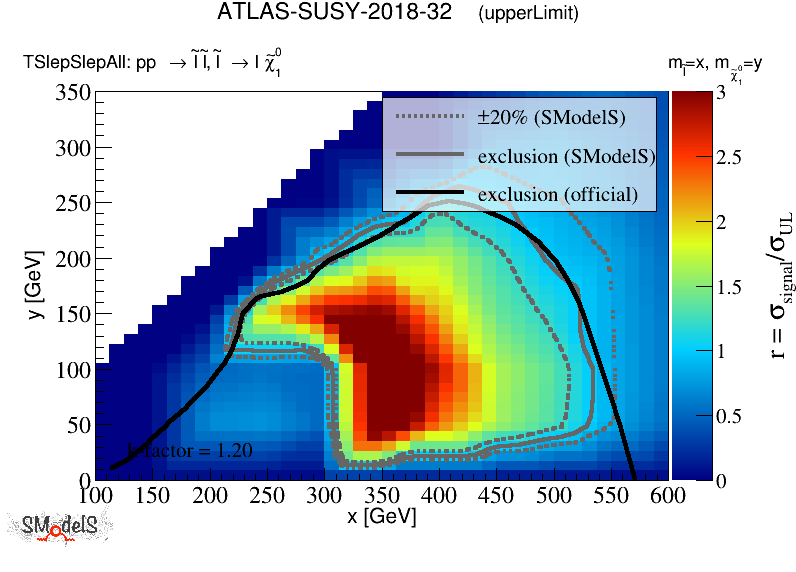
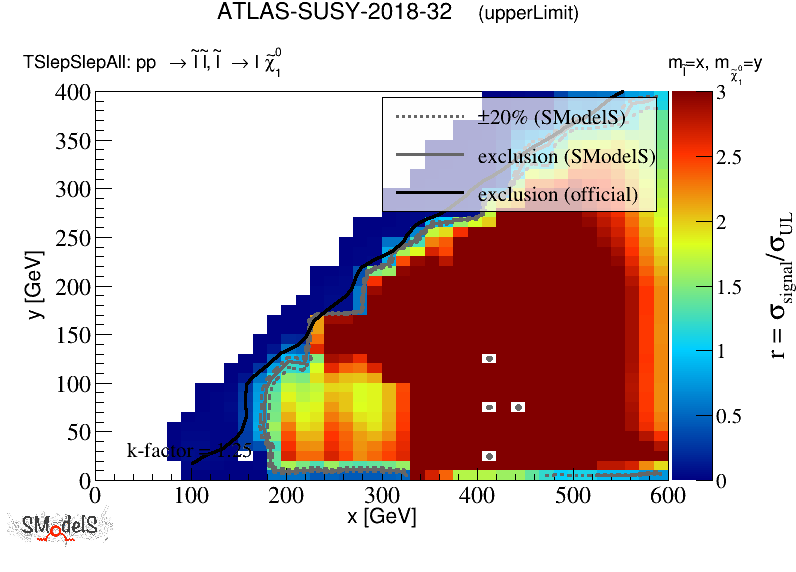
slep gen fix

diff --git a/docs/Validation123phil.md b/docs/Validation123phil.md
@@ -52,7 +52,7 @@ The validation procedure for upper limit maps used here is explained in [arXiv:1
 | [ATLAS-SUSY-2017-02](https://atlas.web.cern.ch/Atlas/GROUPS/PHYSICS/PAPERS/SUSY-2017-02/)| [TChiH](SmsDictionary123phil#TChiH)| 36.1|<a href="https://smodels.github.io/validation/123phil/13TeV/ATLAS/ATLAS-SUSY-2017-02/validation/TChiH_2EqMassAx_EqMassB1.0_pretty.png"><img src="https://smodels.github.io/validation/123phil/13TeV/ATLAS/ATLAS-SUSY-2017-02/validation/TChiH_2EqMassAx_EqMassB1.0_pretty.png" /></a>  | <img src="https://smodels.github.io/pics/new.png" /> in 1.2.3phil!  |
 | [ATLAS-SUSY-2018-32](https://atlas.web.cern.ch/Atlas/GROUPS/PHYSICS/PAPERS/SUSY-2018-32/)| [TChiWW](SmsDictionary123phil#TChiWW)| 139.0|<a href="https://smodels.github.io/validation/123phil/13TeV/ATLAS/ATLAS-SUSY-2018-32/validation/TChiWW_2EqMassAx_EqMassBy_pretty.png"><img src="https://smodels.github.io/validation/123phil/13TeV/ATLAS/ATLAS-SUSY-2018-32/validation/TChiWW_2EqMassAx_EqMassBy_pretty.png" /></a>  | <img src="https://smodels.github.io/pics/new.png" /> in 1.2.3phil!  |
 | | [TChipChimSlepSlepAll](SmsDictionary123phil#TChipChimSlepSlepAll)| 139.0|<a href="https://smodels.github.io/validation/123phil/13TeV/ATLAS/ATLAS-SUSY-2018-32/validation/TChipChimSlepSlepAll_2EqMassAx_EqMassB0.5x+0.5y_EqMassCy_pretty.png"><img src="https://smodels.github.io/validation/123phil/13TeV/ATLAS/ATLAS-SUSY-2018-32/validation/TChipChimSlepSlepAll_2EqMassAx_EqMassB0.5x+0.5y_EqMassCy_pretty.png" /></a>  | <img src="https://smodels.github.io/pics/new.png" /> in 1.2.3phil!  |
-| | [TSlepSlep](SmsDictionary123phil#TSlepSlep)| 139.0|<a href="https://smodels.github.io/validation/123phil/13TeV/ATLAS/ATLAS-SUSY-2018-32/validation/TSlepSlep_2EqMassAx_EqMassBy_pretty.png"><img src="https://smodels.github.io/validation/123phil/13TeV/ATLAS/ATLAS-SUSY-2018-32/validation/TSlepSlep_2EqMassAx_EqMassBy_pretty.png" /></a>  | <img src="https://smodels.github.io/pics/new.png" /> in 1.2.3phil!  |
+| | [TSlepSlepAll](SmsDictionary123phil#TSlepSlepAll)| 139.0|<a href="https://smodels.github.io/validation/123phil/13TeV/ATLAS/ATLAS-SUSY-2018-32/validation/TSlepSlepAll_2EqMassAx_EqMassBy_pretty.png"><img src="https://smodels.github.io/validation/123phil/13TeV/ATLAS/ATLAS-SUSY-2018-32/validation/TSlepSlepAll_2EqMassAx_EqMassBy_pretty.png" /></a>  | <img src="https://smodels.github.io/pics/new.png" /> in 1.2.3phil!  |
 
 
 <a name="ATLASefficiencymaps13"></a>
@@ -84,4 +84,4 @@ The validation procedure for upper limit maps used here is explained in [arXiv:1
 | [ATLAS-SUSY-2017-01](https://atlas.web.cern.ch/Atlas/GROUPS/PHYSICS/PAPERS/SUSY-2017-01/)| [TChiWH](SmsDictionary123phil#TChiWH)| 36.1|<a href="https://smodels.github.io/validation/123phil/13TeV/ATLAS/ATLAS-SUSY-2017-01-eff/validation/TChiWH_2EqMassAx_EqMassBy_pretty.png"><img src="https://smodels.github.io/validation/123phil/13TeV/ATLAS/ATLAS-SUSY-2017-01-eff/validation/TChiWH_2EqMassAx_EqMassBy_pretty.png" /></a>  | <img src="https://smodels.github.io/pics/new.png" /> in 1.2.3phil! [comment](https://smodels.github.io/validation/123phil/13TeV/ATLAS/ATLAS-SUSY-2017-01-eff/validation/TChiWH.txt) |
 | [ATLAS-SUSY-2018-32](https://atlas.web.cern.ch/Atlas/GROUPS/PHYSICS/PAPERS/SUSY-2018-32/)| [TChiWW](SmsDictionary123phil#TChiWW)| 139.0|<a href="https://smodels.github.io/validation/123phil/13TeV/ATLAS/ATLAS-SUSY-2018-32-eff/validation/TChiWW_2EqMassAx_EqMassBy_pretty.png"><img src="https://smodels.github.io/validation/123phil/13TeV/ATLAS/ATLAS-SUSY-2018-32-eff/validation/TChiWW_2EqMassAx_EqMassBy_pretty.png" /></a>  | <img src="https://smodels.github.io/pics/new.png" /> in 1.2.3phil!  |
 
-This page was created Thu Jan 23 13:07:33 2020
+This page was created Thu Jan 23 14:26:42 2020

diff --git a/docs/ValidationUgly123phil.md b/docs/ValidationUgly123phil.md
@@ -55,7 +55,7 @@ To [official validation plots](Validation123phil)
 | [ATLAS-SUSY-2017-02](https://atlas.web.cern.ch/Atlas/GROUPS/PHYSICS/PAPERS/SUSY-2017-02/)| [TChiH](SmsDictionary123phil#TChiH)| 36.1| tbd |<a href="https://smodels.github.io/validation/123phil/13TeV/ATLAS/ATLAS-SUSY-2017-02/validation/TChiH_2EqMassAx_EqMassB1.0.png"><img src="https://smodels.github.io/validation/123phil/13TeV/ATLAS/ATLAS-SUSY-2017-02/validation/TChiH_2EqMassAx_EqMassB1.0.png" /></a>  | <img src="https://smodels.github.io/pics/new.png" /> in 1.2.3phil!  |
 | [ATLAS-SUSY-2018-32](https://atlas.web.cern.ch/Atlas/GROUPS/PHYSICS/PAPERS/SUSY-2018-32/)| [TChiWW](SmsDictionary123phil#TChiWW)| 139.0| tbd |<a href="https://smodels.github.io/validation/123phil/13TeV/ATLAS/ATLAS-SUSY-2018-32/validation/TChiWW_2EqMassAx_EqMassBy.png"><img src="https://smodels.github.io/validation/123phil/13TeV/ATLAS/ATLAS-SUSY-2018-32/validation/TChiWW_2EqMassAx_EqMassBy.png" /></a>  | <img src="https://smodels.github.io/pics/new.png" /> in 1.2.3phil!  |
 | | [TChipChimSlepSlepAll](SmsDictionary123phil#TChipChimSlepSlepAll)| 139.0| tbd |<a href="https://smodels.github.io/validation/123phil/13TeV/ATLAS/ATLAS-SUSY-2018-32/validation/TChipChimSlepSlepAll_2EqMassAx_EqMassB0.5x+0.5y_EqMassCy.png"><img src="https://smodels.github.io/validation/123phil/13TeV/ATLAS/ATLAS-SUSY-2018-32/validation/TChipChimSlepSlepAll_2EqMassAx_EqMassB0.5x+0.5y_EqMassCy.png" /></a>  | <img src="https://smodels.github.io/pics/new.png" /> in 1.2.3phil!  |
-| | [TSlepSlep](SmsDictionary123phil#TSlepSlep)| 139.0| tbd |<a href="https://smodels.github.io/validation/123phil/13TeV/ATLAS/ATLAS-SUSY-2018-32/validation/TSlepSlep_2EqMassAx_EqMassBy.png"><img src="https://smodels.github.io/validation/123phil/13TeV/ATLAS/ATLAS-SUSY-2018-32/validation/TSlepSlep_2EqMassAx_EqMassBy.png" /></a>  | <img src="https://smodels.github.io/pics/new.png" /> in 1.2.3phil!  |
+| | [TSlepSlepAll](SmsDictionary123phil#TSlepSlepAll)| 139.0| tbd |  | <img src="https://smodels.github.io/pics/new.png" /> in 1.2.3phil!  |
 
 
 <a name="ATLASefficiencymaps13"></a>
@@ -87,4 +87,4 @@ To [official validation plots](Validation123phil)
 | [ATLAS-SUSY-2017-01](https://atlas.web.cern.ch/Atlas/GROUPS/PHYSICS/PAPERS/SUSY-2017-01/)| [TChiWH](SmsDictionary123phil#TChiWH)| 36.1| tbd |<a href="https://smodels.github.io/validation/123phil/13TeV/ATLAS/ATLAS-SUSY-2017-01-eff/validation/TChiWH_2EqMassAx_EqMassBy.png"><img src="https://smodels.github.io/validation/123phil/13TeV/ATLAS/ATLAS-SUSY-2017-01-eff/validation/TChiWH_2EqMassAx_EqMassBy.png" /></a>  | <img src="https://smodels.github.io/pics/new.png" /> in 1.2.3phil! [comment](https://smodels.github.io/validation/123phil/13TeV/ATLAS/ATLAS-SUSY-2017-01-eff/validation/TChiWH.txt) |
 | [ATLAS-SUSY-2018-32](https://atlas.web.cern.ch/Atlas/GROUPS/PHYSICS/PAPERS/SUSY-2018-32/)| [TChiWW](SmsDictionary123phil#TChiWW)| 139.0| tbd |<a href="https://smodels.github.io/validation/123phil/13TeV/ATLAS/ATLAS-SUSY-2018-32-eff/validation/TChiWW_2EqMassAx_EqMassBy.png"><img src="https://smodels.github.io/validation/123phil/13TeV/ATLAS/ATLAS-SUSY-2018-32-eff/validation/TChiWW_2EqMassAx_EqMassBy.png" /></a>  | <img src="https://smodels.github.io/pics/new.png" /> in 1.2.3phil!  |
 
-This page was created Thu Jan 23 13:07:42 2020
+This page was created Thu Jan 23 14:26:49 2020

diff --git a/docs/ListOfAnalyses123philWithSuperseded.md b/docs/ListOfAnalyses123philWithSuperseded.md
@@ -2,7 +2,7 @@
 
 # List Of Analyses 1.2.3phil (including superseded results)
 List of analyses and topologies in the SMS results database,
-comprising 79 individual maps from 59 distinct signal regions, 16 different SMS topologies, from a total of 7 analyses.
+comprising 79 individual maps from 59 distinct signal regions, 15 different SMS topologies, from a total of 7 analyses.
 The list has been created from the database version `1.2.3phil`.
 Results from FastLim are included. There is also an  [sms dictionary](SmsDictionary123phil) and a [validation page](Validation123phil).
 Link to list of results [without superseded results](ListOfAnalyses123phil).
@@ -24,7 +24,7 @@ Link to list of results [without superseded results](ListOfAnalyses123phil).
 | [ATLAS-SUSY-2016-27](https://atlas.web.cern.ch/Atlas/GROUPS/PHYSICS/PAPERS/SUSY-2016-27/)<a name="ATLAS-SUSY-2016-27"></a> |  | 36.1 | [T5Gamma](SmsDictionary123phil#T5Gamma), [T5ZGamma](SmsDictionary123phil#T5ZGamma), [T6Gamma](SmsDictionary123phil#T6Gamma), [TChipChimGamma](SmsDictionary123phil#TChipChimGamma) | | |
 | [ATLAS-SUSY-2017-01](https://atlas.web.cern.ch/Atlas/GROUPS/PHYSICS/PAPERS/SUSY-2017-01/)<a name="ATLAS-SUSY-2017-01"></a> | EWK WH(bb) + MET | 36.1 | [TChiWH](SmsDictionary123phil#TChiWH) | | |
 | [ATLAS-SUSY-2017-02](https://atlas.web.cern.ch/Atlas/GROUPS/PHYSICS/PAPERS/SUSY-2017-02/)<a name="ATLAS-SUSY-2017-02"></a> | 0L + jets + Etmiss | 36.1 | [TChiH](SmsDictionary123phil#TChiH) | | |
-| [ATLAS-SUSY-2018-32](https://atlas.web.cern.ch/Atlas/GROUPS/PHYSICS/PAPERS/SUSY-2018-32/)<a name="ATLAS-SUSY-2018-32"></a> | 2 leptons + MET | 139.0 | [TChiWW](SmsDictionary123phil#TChiWW), [TChipChimSlepSlepAll](SmsDictionary123phil#TChipChimSlepSlepAll), [TSlepSlep](SmsDictionary123phil#TSlepSlep) | | |
+| [ATLAS-SUSY-2018-32](https://atlas.web.cern.ch/Atlas/GROUPS/PHYSICS/PAPERS/SUSY-2018-32/)<a name="ATLAS-SUSY-2018-32"></a> | 2 leptons + MET | 139.0 | [TChiWW](SmsDictionary123phil#TChiWW), [TChipChimSlepSlepAll](SmsDictionary123phil#TChipChimSlepSlepAll), [TSlepSlepAll](SmsDictionary123phil#TSlepSlepAll) | | |
 
 <a name="ATLASefficiencymaps13"></a>
 ## ATLAS, efficiency maps, 13 TeV (6 analyses)

diff --git a/docs/ListOfAnalyses123phil.md b/docs/ListOfAnalyses123phil.md
@@ -2,7 +2,7 @@
 
 # List Of Analyses 1.2.3phil 
 List of analyses and topologies in the SMS results database,
-comprising 79 individual maps from 59 distinct signal regions, 16 different SMS topologies, from a total of 7 analyses.
+comprising 79 individual maps from 59 distinct signal regions, 15 different SMS topologies, from a total of 7 analyses.
 The list has been created from the database version `1.2.3phil`.
 Results from FastLim are included. There is also an  [sms dictionary](SmsDictionary123phil) and a [validation page](Validation123phil).
 Link to list of results [including superseded results](ListOfAnalyses123philWithSuperseded).
@@ -24,7 +24,7 @@ Link to list of results [including superseded results](ListOfAnalyses123philWith
 | [ATLAS-SUSY-2016-27](https://atlas.web.cern.ch/Atlas/GROUPS/PHYSICS/PAPERS/SUSY-2016-27/)<a name="ATLAS-SUSY-2016-27"></a> |  | 36.1 | [T5Gamma](SmsDictionary123phil#T5Gamma), [T5ZGamma](SmsDictionary123phil#T5ZGamma), [T6Gamma](SmsDictionary123phil#T6Gamma), [TChipChimGamma](SmsDictionary123phil#TChipChimGamma) | |
 | [ATLAS-SUSY-2017-01](https://atlas.web.cern.ch/Atlas/GROUPS/PHYSICS/PAPERS/SUSY-2017-01/)<a name="ATLAS-SUSY-2017-01"></a> | EWK WH(bb) + MET | 36.1 | [TChiWH](SmsDictionary123phil#TChiWH) | |
 | [ATLAS-SUSY-2017-02](https://atlas.web.cern.ch/Atlas/GROUPS/PHYSICS/PAPERS/SUSY-2017-02/)<a name="ATLAS-SUSY-2017-02"></a> | 0L + jets + Etmiss | 36.1 | [TChiH](SmsDictionary123phil#TChiH) | |
-| [ATLAS-SUSY-2018-32](https://atlas.web.cern.ch/Atlas/GROUPS/PHYSICS/PAPERS/SUSY-2018-32/)<a name="ATLAS-SUSY-2018-32"></a> | 2 leptons + MET | 139.0 | [TChiWW](SmsDictionary123phil#TChiWW), [TChipChimSlepSlepAll](SmsDictionary123phil#TChipChimSlepSlepAll), [TSlepSlep](SmsDictionary123phil#TSlepSlep) | |
+| [ATLAS-SUSY-2018-32](https://atlas.web.cern.ch/Atlas/GROUPS/PHYSICS/PAPERS/SUSY-2018-32/)<a name="ATLAS-SUSY-2018-32"></a> | 2 leptons + MET | 139.0 | [TChiWW](SmsDictionary123phil#TChiWW), [TChipChimSlepSlepAll](SmsDictionary123phil#TChipChimSlepSlepAll), [TSlepSlepAll](SmsDictionary123phil#TSlepSlepAll) | |
 
 <a name="ATLASefficiencymaps13"></a>
 ## ATLAS, efficiency maps, 13 TeV (6 analyses)

diff --git a/docs/SmsDictionary123phil.md b/docs/SmsDictionary123phil.md
@@ -22,5 +22,4 @@ There is also a [ListOfAnalyses123phil](https://smodels.github.io/docs/ListOfAna
 | 12 | <a name="TChiWZ"></a>**TChiWZ**<br> | `[[[W]],[[Z]]]`<BR>`(MET,MET)` | ![TChiWZ](../feyn/straight/TChiWZ.png) | [ATLAS-SUSY-2016-24](ListOfAnalyses123phil#ATLAS-SUSY-2016-24)|
 | 13 | <a name="TChipChimGamma"></a>**TChipChi-<br>mGamma**<br> | `[[[W],[y]],[[Z],[y]]]+`<BR>`[[[W],[y]],[[W],[y]]]+`<BR>`[[[W],[y]],[[h],[y]]]`<BR>`(MET,MET)` | ![TChipChimGamma](../feyn/straight/TChipChimGamma.png) | [ATLAS-SUSY-2016-27](ListOfAnalyses123phil#ATLAS-SUSY-2016-27)|
 | 14 | <a name="TChipChimSlepSlepAll"></a>**TChipChim-<br>SlepSlepAll**<br> | `[[[nu],[L+]],[[nu],[L-]]]`<BR>`(MET,MET)` | ![TChipChimSlepSlepAll](../feyn/straight/TChipChimSlepSlepAll.png) | [ATLAS-SUSY-2016-24](ListOfAnalyses123phil#ATLAS-SUSY-2016-24)<BR>[ATLAS-SUSY-2018-32](ListOfAnalyses123phil#ATLAS-SUSY-2018-32)|
-| 15 | <a name="TSlepSlep"></a>**TSlepSlep**<br> | `[[[l]],[[l]]]`<BR>`(MET,MET)` | ![TSlepSlep](../feyn/straight/TSlepSlep.png) | [ATLAS-SUSY-2018-32](ListOfAnalyses123phil#ATLAS-SUSY-2018-32)|
-| 16 | <a name="TSlepSlepAll"></a>**TSlepSle-<br>pAll**<br> | `[[[l]],[[l]]]`<BR>`(MET,MET);`<BR>`[[[L+]],[[L-]]]`<BR>`(MET,MET)` | ![TSlepSlepAll](../feyn/straight/TSlepSlepAll.png) | [ATLAS-SUSY-2016-24](ListOfAnalyses123phil#ATLAS-SUSY-2016-24)|
+| 15 | <a name="TSlepSlepAll"></a>**TSlepSle-<br>pAll**<br> | `[[[L+]],[[L-]]]`<BR>`(MET,MET);`<BR>`[[[l]],[[l]]]`<BR>`(MET,MET)` | ![TSlepSlepAll](../feyn/straight/TSlepSlepAll.png) | [ATLAS-SUSY-2016-24](ListOfAnalyses123phil#ATLAS-SUSY-2016-24)<BR>[ATLAS-SUSY-2018-32](ListOfAnalyses123phil#ATLAS-SUSY-2018-32)|
